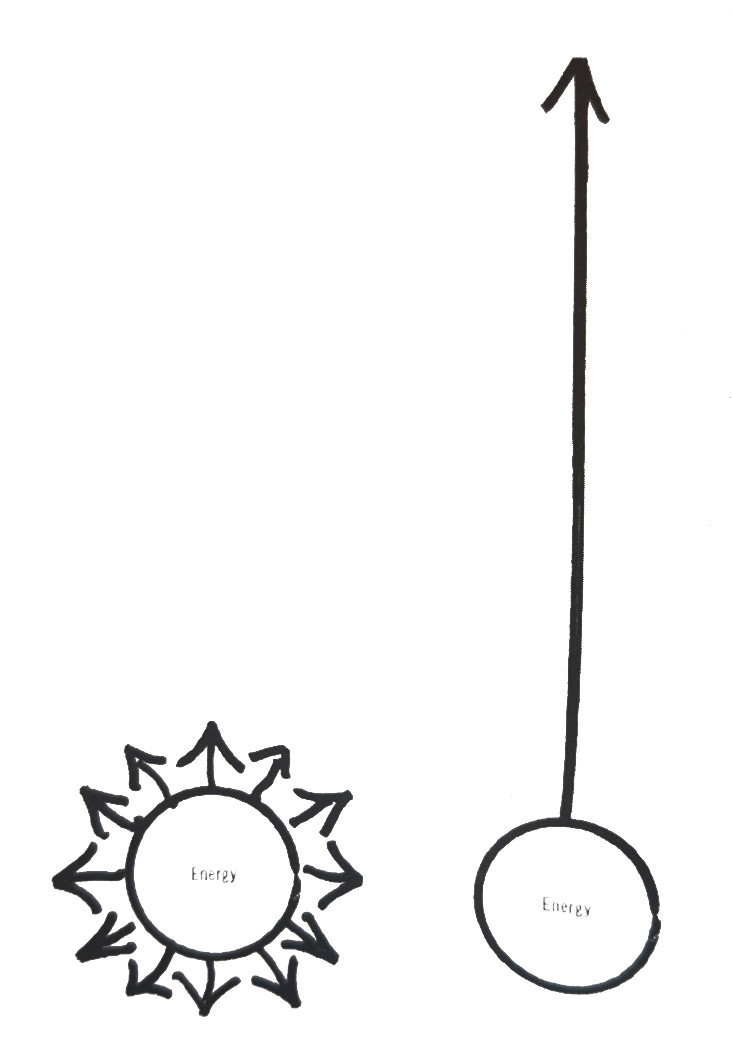
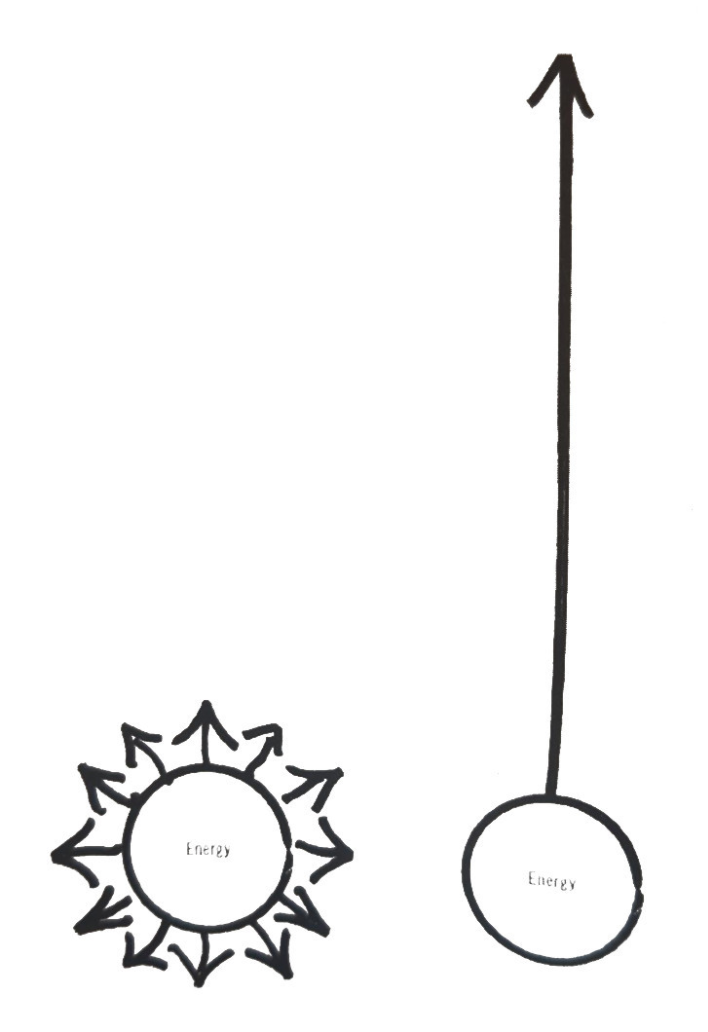
energy figure inverted

diff --git a/src/content/posts/3.md b/src/content/posts/3.md
@@ -24,7 +24,7 @@ As an essentialist, you should always seek out your highest point of contributio
 - Don’t just take good opportunities; always ask if this is the *best* and *most important* use of your resources.
 - Reflect on this question: "Is this how I want to spend my one wild and precious life?"
 
-![Energy Figure](/images/energy-figure.jpeg)
+![Energy Figure](/images/energy-figure.jpg)
 
 
 ## The Trivial Many
